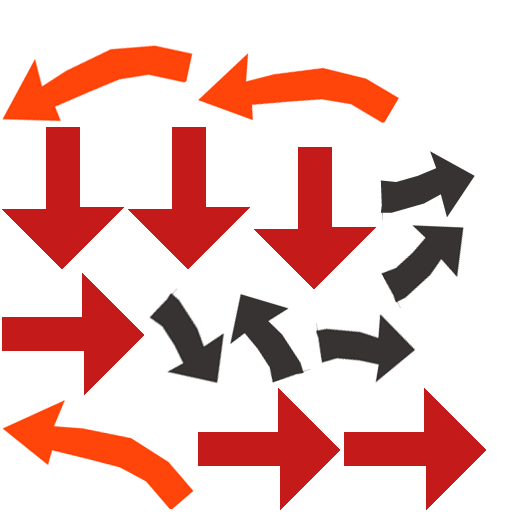
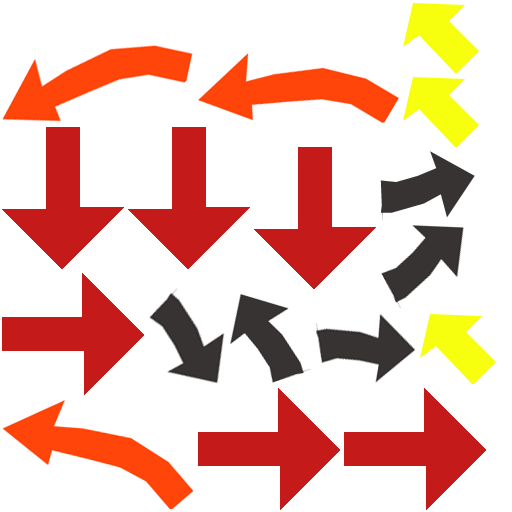
button arrow added for advair

Changed region(s): [[0.7812, 0.0, 0.9375, 0.2812], [0.8125, 0.5938, 0.9688, 0.75]]

diff --git a/MyZooPets/Assets/Scripts/InhalerGame/buttonArrow.cs b/MyZooPets/Assets/Scripts/InhalerGame/buttonArrow.cs
@@ -1,0 +1,21 @@
+using UnityEngine;
+using System.Collections;
+
+public class buttonArrow : MonoBehaviour {
+
+	// Use this for initialization
+	void Start () {
+		renderer.enabled = false;
+	}
+	
+	// Update is called once per frame
+	void Update () {
+		if (InhalerLogic.CurrentStep == 2 && InhalerLogic.CurrentInhalerType == InhalerType.Advair){
+            renderer.enabled = true;
+        }	
+		else
+		{
+			renderer.enabled = false;
+		}
+	}
+}
